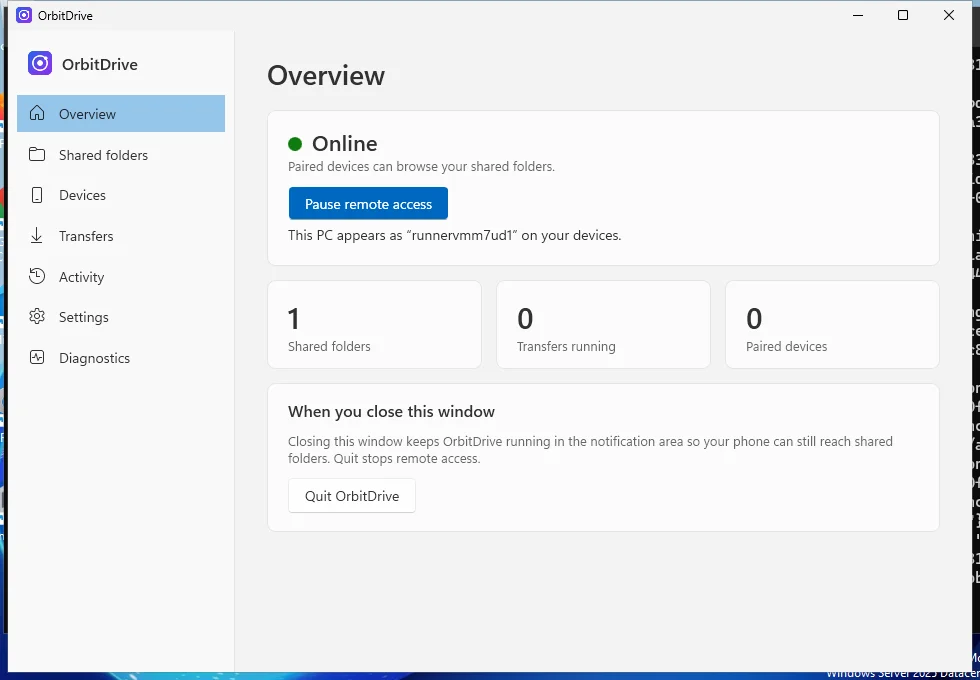
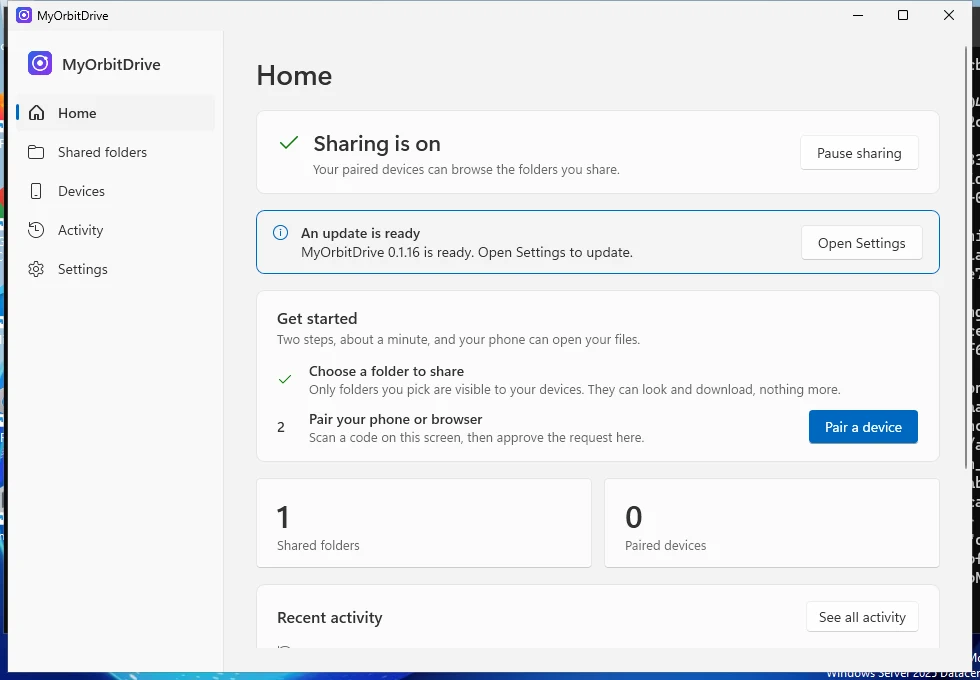
Site: use fresh Windows captures of the renamed console; notes and tests follow
Claude-Session: https://claude.ai/code/session_01L77RmbDbewdtMg1oMJKzea

diff --git a/apps/site/index.html b/apps/site/index.html
@@ -75,8 +75,8 @@
 <section class="tint"><div class="wrap">
   <p class="eyebrow">What you can do</p><h2>The everyday jobs</h2><br>
   <div class="story reveal"><div class="copy"><h3>Find the file without being at the desk</h3><p>Browse the folders you shared, sort and filter, and open pictures and PDFs in a preview. Nothing is copied until you press download.</p></div><img class="shot" loading="lazy" src="assets/shots/desktop-09-icons.webp" width="1600" height="1000" alt="A folder of three pictures in icon view"></div>
-  <div class="story reveal"><div class="copy"><h3>Send a file to your phone from the PC</h3><p>Right-click a file in Windows and choose Send to my phone. It waits in your Inbox until you accept it, and you can decline it.</p></div><img class="shot" loading="lazy" src="assets/win/win-approve.webp" width="980" height="680" alt="The Windows app asking the owner to approve a new browser"></div>
-  <div class="story reveal"><div class="copy"><h3>You stay in control</h3><p>Every folder and every device needs your approval on the PC. Remove a phone or browser, or stop sharing a folder, whenever you like.</p></div><img class="shot" loading="lazy" src="assets/win/win-folders.webp" width="980" height="680" alt="The Windows app listing the shared folders"></div>
+  <div class="story reveal"><div class="copy"><h3>Pair a phone in a minute</h3><p>Create a one-time code on the PC, scan it or type it on your phone, then approve the request on the PC. Right-click a file in Windows and choose Send to my phone to drop one into your Inbox.</p></div><img class="shot" loading="lazy" src="assets/win/win-pair.webp" width="980" height="680" alt="The MyOrbitDrive Windows app showing a QR code and a one-time code for pairing a new device"></div>
+  <div class="story reveal"><div class="copy"><h3>You stay in control</h3><p>Every folder and every device needs your approval on the PC. Remove a phone or browser, or stop sharing a folder, whenever you like.</p></div><img class="shot" loading="lazy" src="assets/win/win-devices.webp" width="980" height="680" alt="The MyOrbitDrive Windows app listing a paired phone with an option to remove it"></div>
 </div></section>
 
 <section id="transfer"><div class="wrap">

diff --git a/apps/site/site.js b/apps/site/site.js
@@ -58,7 +58,7 @@ const SHOTS = [
   ['phone-10-transfers', 'phone', 'Transfers on a phone-sized screen', 'Phone-sized'],
   ['phone-11-dark', 'phone', 'Dark theme on a phone-sized screen', 'Phone-sized'],
 ];
-const WIN = [['win-home', 'The Windows app home'], ['win-folders', 'Choosing shared folders'], ['win-approve', 'Approving a new browser']];
+const WIN = [['win-home', 'The Windows app home'], ['win-devices', 'Paired devices, removable at any time'], ['win-pair', 'Pairing with a QR code'], ['win-dark', 'The Windows app in dark theme']];
 const gal = document.getElementById('gal');
 const entries = [
   ...SHOTS.map(([f, k, c, l]) => ({ src: `assets/shots/${f}.webp`, kind: k, cap: c, label: l })),

diff --git a/docs/branding/SITE_NOTES.md b/docs/branding/SITE_NOTES.md
@@ -10,7 +10,7 @@ Header with mobile menu; hero (headline, two actions, real screen); three-step f
 
 Honest limits:
 - Phone shots are a **phone-sized desktop-Chrome viewport, not a physical phone**, and the page says so.
-- Windows app shots (3) are existing real captures from the CI Windows runner (`docs/evidence/screenshots/owner-console`), 980x680 at 1x, with test data. Higher-resolution, curated Windows captures need the Windows UI-automation run extended or the owner's PC.
+- Windows app shots (4) are real captures of the renamed console from the CI Windows runner (commit 6b98c4a, `desktop-ui` run; extracted from the job log), 980x680 at 1x, with test data. Several other CI frames show a leftover "Share an entire drive" test dialog, so only dialog-free frames were used. Higher-resolution, curated Windows captures need the Windows UI-automation run extended or the owner's PC.
 - Picture thumbnails are not shown in icon view because the Linux capture agent has no Windows Shell thumbnailer; a Windows capture would show them.
 - Not captured: the Inbox with a waiting file, the Explorer "Send to my phone" context menu (needs real Windows 11 Explorer), the QR code screen, real devices. Storyboard items still open: 16-item list items for Inbox, Devices, Properties, QR and Windows-side flows.
 
